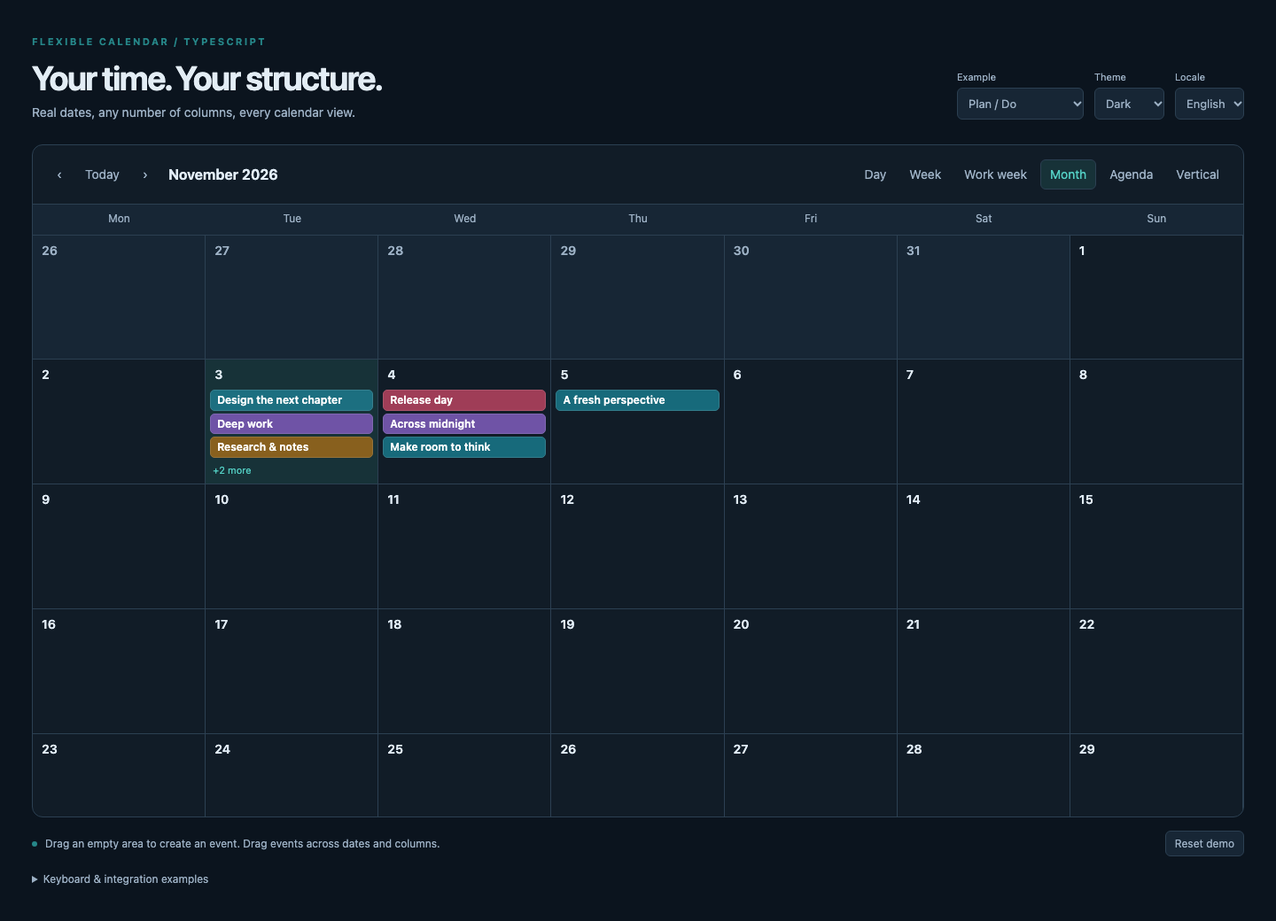
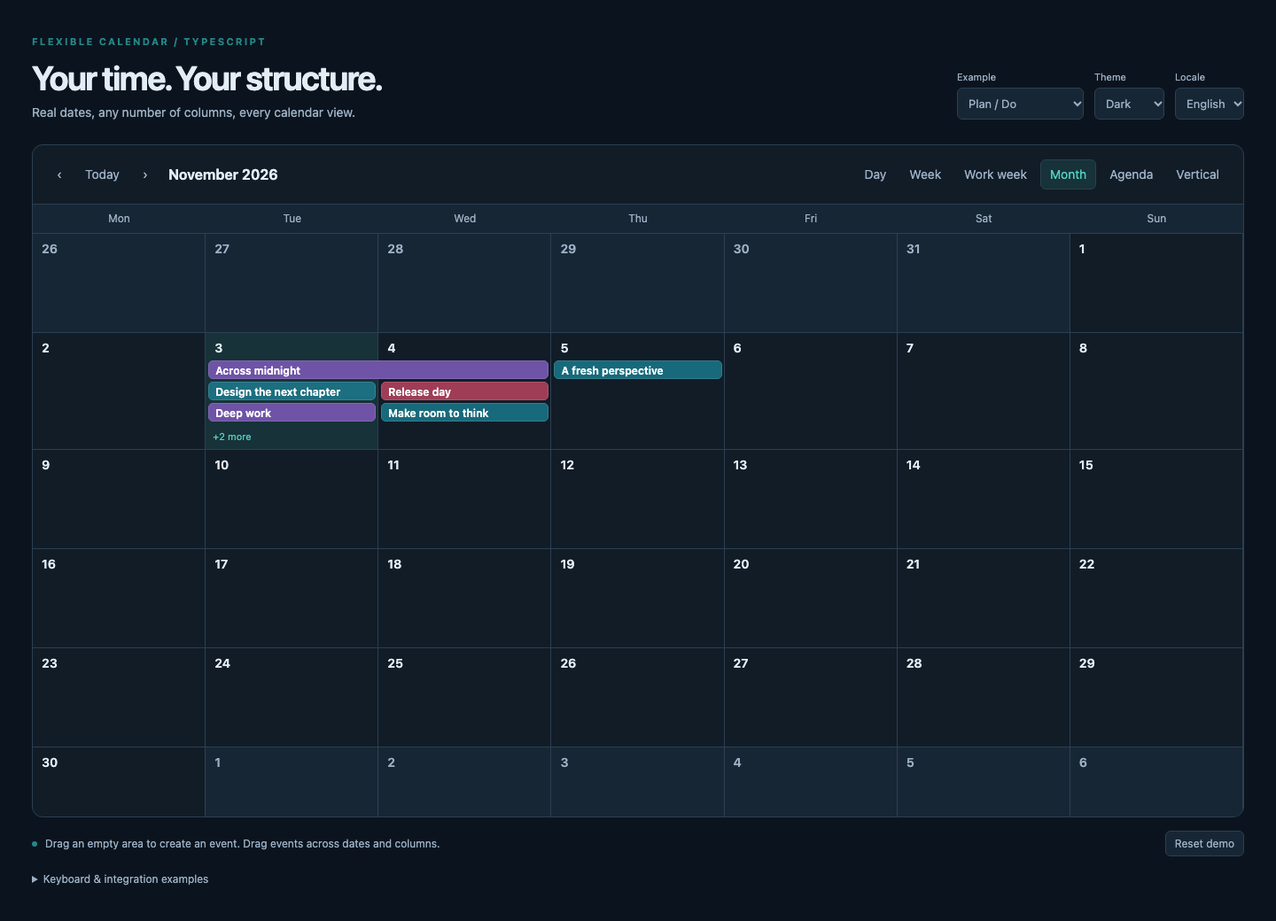
docs: record review improvements and measured performance

diff --git a/tests/browser/calendar.spec.ts b/tests/browser/calendar.spec.ts
@@ -180,9 +180,7 @@ test("dark mode, Japanese labels, and month overflow", async ({ page }) => {
   await page
     .locator('.fc-month-day[data-date="2026-11-03"] .fc-show-more')
     .click();
-  await expect(
-    page.locator('.fc-month-popup .fc-event'),
-  ).toHaveCount(5);
+  await expect(page.locator(".fc-month-popup .fc-event")).toHaveCount(5);
 });
 test("unmount removes calendar and stops callbacks", async ({ page }) => {
   await page.evaluate(() => window.demoCalendar.destroy());

diff --git a/docs/features.md b/docs/features.md
@@ -2,40 +2,40 @@
 
 This project targets the functional categories of [react-big-calendar](https://github.com/bigcalendar/react-big-calendar), while keeping the engine and renderer independent of React. It does **not** promise compatible props, DOM classes, identical geometry, or complete API parity. The following describes the implemented version, not a roadmap presented as finished work.
 
-| Capability                              | Flexible Calendar 0.1                                                                 |
-| --------------------------------------- | ------------------------------------------------------------------------------------- |
-| Day / week / work-week / month / agenda | Implemented                                                                           |
-| Arbitrary N-day vertical                | Implemented with real dates                                                           |
-| Resource columns                        | Implemented in time views; per-date resource sets and multi-resource events supported |
-| Timed and all-day events                | Implemented; all-day status is explicit                                               |
-| Midnight-spanning events                | Automatic visual segments, original event identity retained                           |
-| Overlap layout                          | No-overlap lanes by default; overlap mode and custom layout callback                  |
-| Month overflow                          | Configurable visible count, inline expansion, `onShowMore` override                   |
-| Date drill-down and navigation          | Implemented; toolbar can be hidden or replaced                                        |
-| Custom views                            | Registered range/navigation definitions and DOM renderer callbacks                    |
-| Selection, event click, double-click    | Implemented; selection veto supported                                                 |
-| Pointer move and resize                 | Implemented in time/month/all-day views                                               |
-| Cross-date and cross-resource drag      | Implemented; timed duration preserved                                                 |
-| External drag source                    | Native HTML5 `DataTransfer` adapter                                                   |
-| Drag auto-scroll                        | Both axes in the calendar scroll container                                            |
-| Keyboard / touch                        | Implemented; see interaction contract in API docs                                     |
-| Background events                       | Implemented in time views, excluded from overlap calculations                         |
-| Data accessors                          | Typed `adaptEvents` / `adaptResources` helpers                                        |
-| Custom event/header components          | DOM nodes, React portals, Vue slots                                                   |
-| Event/column/day styles                 | Public callbacks; no private DOM query needed                                         |
-| Messages, locale, formats, time zone    | Intl + Temporal; custom time/day/period formatters                                    |
-| RTL and dark mode                       | Included for every built-in view                                                      |
-| SSR imports                             | Safe; actual UI mounts on the client                                                  |
+| Capability                              | Flexible Calendar 0.1                                                                    |
+| --------------------------------------- | ---------------------------------------------------------------------------------------- |
+| Day / week / work-week / month / agenda | Implemented                                                                              |
+| Arbitrary N-day vertical                | Implemented with real dates                                                              |
+| Resource columns                        | Implemented in time views; per-date resource sets and multi-resource events supported    |
+| Timed and all-day events                | Implemented; all-day status is explicit                                                  |
+| Midnight-spanning events                | Automatic visual segments, original event identity retained                              |
+| Overlap layout                          | No-overlap lanes by default; overlap mode and custom layout callback                     |
+| Month overflow                          | Continuous weekly bars, overflow popup, optional inline expansion, `onShowMore` override |
+| Date drill-down and navigation          | Implemented; toolbar can be hidden or replaced                                           |
+| Custom views                            | Registered range/navigation definitions and DOM renderer callbacks                       |
+| Selection, event click, double-click    | Implemented; selection veto supported                                                    |
+| Pointer move and resize                 | Implemented in time/month/all-day views                                                  |
+| Cross-date and cross-resource drag      | Implemented; timed duration preserved                                                    |
+| External drag source                    | Native HTML5 `DataTransfer` adapter                                                      |
+| Drag auto-scroll                        | Both axes in the calendar scroll container                                               |
+| Keyboard / touch                        | Implemented; see interaction contract in API docs                                        |
+| Background events                       | Implemented in time views, excluded from overlap calculations                            |
+| Data accessors                          | Typed `adaptEvents` / `adaptResources` helpers                                           |
+| Custom event/header components          | DOM nodes, React portals, Vue slots                                                      |
+| Event/column/day styles                 | Public callbacks; no private DOM query needed                                            |
+| Messages, locale, formats, time zone    | Intl + Temporal; custom time/day/period formatters                                       |
+| RTL and dark mode                       | Included for every built-in view                                                         |
+| SSR imports                             | Safe; actual UI mounts on the client                                                     |
 
 ## Deliberate differences and current limits
 
 - This is a new API. Import replacement alone cannot convert a react-big-calendar consumer. `work-week` is spelled with a hyphen; events have required unique string IDs; notifications use native events and actual Date instants.
-- Month and all-day multi-day events are rendered as daily fragments, rather than one continuous spanning bar. Their identity, interval and editing operations remain shared.
-- Month uses a fixed six-week grid. Overflow expands inline rather than opening a built-in popup. An application can provide its own popup via `onShowMore`.
+- Time-view all-day multi-day events remain daily fragments. Month events use continuous bars, split only at week boundaries; both retain original event identity.
+- Month uses 4–6 weeks by default, with an optional fixed six-week grid. Overflow opens an accessible dialog; inline expansion and application overrides are available.
 - Custom views register pure date-range/navigation functions and a renderer callback, rather than React component statics. Event creation and change callbacks are provided to the renderer.
 - No Moment/Globalize/date-fns localizer adapters. Intl locale, explicit week start, time zone and formatter callbacks replace them.
 - No recurrence expansion, editor form, persistence, scheduler timeline, event virtualization or built-in undo history. These are application concerns or separate extensions.
 - DST uses a fixed wall-clock grid, not a duplicated fall-back hour; see [date behavior](dates.md).
-- DOM updates rebuild the visible view. No unbounded-data performance guarantee or formal screen-reader certification is claimed.
+- Event-only time-view updates replace affected columns. Structural changes and month/agenda updates rebuild the view. See [benchmarks](performance.md); no unbounded-data performance guarantee or formal screen-reader certification is claimed.
 
 These differences are part of the preview review checklist. They must not be described as complete drop-in equivalence to an established library.

diff --git a/docs/api.md b/docs/api.md
@@ -54,20 +54,20 @@ The end is **exclusive**, including for all-day events. Events with invalid date
 | `minMinute`, `maxMinute` | `0`, `1440` | Visible wall-clock bounds                                 |
 | `step`                   | `30`        | Selection, keyboard and pointer snap increment in minutes |
 
-Month always displays six weeks; work-week excludes Saturday/Sunday after applying the chosen week start. `vertical` starts exactly on the anchor date. Week and work-week start at the enclosing week's boundary. Agenda lists the anchor date and following `days - 1` dates.
+Month displays the enclosing 4–6 weeks (`monthFixedWeeks: true` forces six); work-week excludes Saturday/Sunday after applying the chosen week start. `vertical` starts exactly on the anchor date. Week and work-week start at the enclosing week's boundary. Agenda lists the anchor date and following `days - 1` dates.
 
-When resources are present, time views show events whose resource ID matches the column. Without resources, all events appear regardless of their resource assignment. Month and agenda show all supplied events. A resource ID array displays one input event in multiple columns; month and agenda still list it once per intersecting date. A drag to another column proposes that target as the new assignment; use the original event in the callback if your application needs a different reassignment rule. Resource IDs are independent from dates; empty per-date resources produce a single ungrouped column for that date.
+When resources are present, time views show events whose resource ID matches the column. Without resources, all events appear regardless of their resource assignment. Month and agenda show all supplied events. A resource ID array displays one input event in multiple columns; month renders one continuous bar per intersecting week, and agenda lists it once per intersecting date. A drag to another column proposes that target as the new assignment; use the original event in the callback if your application needs a different reassignment rule. Resource IDs are independent from dates; empty per-date resources produce a single ungrouped column for that date.
 
 ## DOM options
 
-- **Geometry:** `height` (680px), `hourHeight` (64px), `columnWidth` (minimum 160px), `scrollToMinute`, `monthMaxEvents` (3).
+- **Geometry:** `height` (680px), `hourHeight` (64px), `columnWidth` (minimum 160px), `scrollToMinute`, `monthMaxEvents` (3 visible event lanes), `monthOverflow` (`"popup"`, or `"expand"` for inline expansion).
 - **Appearance:** `theme: 'light' | 'dark' | 'auto'`, `direction: 'ltr' | 'rtl'`, `messages`, `selectedEventId`, `backgroundEvents`, `now`.
 - **Formatting:** `formats.time(date)`, `formats.day(date)`, `formats.period(start, exclusiveEnd, view)` override default Intl labels.
 - **Layout:** `dayLayoutAlgorithm` accepts `no-overlap` (default), `overlap`, or a function from clipped segments to normalized positions.
 - **Controls:** `toolbar` (true), `renderToolbar(context)`, `views` (all built-in views), `selectable` (true), `editable` (true), `resizable` (true), `touchSelection` (false).
 - **Rendering:** `renderEvent(event, { view, date })`, `renderColumnHeader(column)` return text or a caller-created DOM node. Text is never interpreted as HTML. Nodes are trusted application content; do not interpolate untrusted HTML.
 - **Styling:** `eventStyle(event)`, `columnStyle(column)`, `dayStyle(dateKey)` return `{ className?, style? }`. Column styling can supply a date-specific gradient without querying private DOM structure.
-- **Lifecycle:** `onBeforeRender`, `onRender` let integrations clean up and attach custom content. Do not synchronously update calendar options from these hooks; that would trigger recursive rendering.
+- **Lifecycle:** `onBeforeRender({ partial })`, `onRender` let integrations clean up and attach custom content. When `partial` is true, unaffected nodes remain mounted; only dispose content whose nodes were removed. Month popup changes also notify `onRender`. Do not synchronously update calendar options from these hooks; that would trigger recursive rendering.
 
 Custom content sits inside event buttons; avoid nested buttons/links/form controls. `renderReactEvent` and `renderReactColumnHeader` accept React nodes and preserve context. Vue exposes `event` and `columnHeader` slots. DOM render callbacks remain available in both wrappers.
 
@@ -83,7 +83,7 @@ For asynchronous saves, keep the old array until success, or apply an optimistic
 
 `onNavigate(date, view)`, `onViewChange(view)`, `onRangeChange({start,end}, view)` notify navigation. Range end is exclusive. The range callback fires initially and when view, zone or range changes. The DOM instance manages its current date/view until overridden with `update`; wrappers reapply explicitly supplied props/options. Keep date/view in application state and handle callbacks if the application controls navigation.
 
-`onDrillDown(date, 'day')` overrides the default date-header transition to day view. `onShowMore(events, dateKey)` overrides in-cell expansion. `getExternalEvent(dataTransfer)` and `onExternalDrop(change)` support native HTML5 drag sources; applications own payload validation and insertion.
+`onDrillDown(date, 'day')` overrides the default date-header transition to day view. `onShowMore(events, dateKey)` overrides the built-in overflow popup or inline expansion. The popup lists every event on that date, supports Escape, and returns focus to the overflow button. `getExternalEvent(dataTransfer)` and `onExternalDrop(change)` support native HTML5 drag sources; applications own payload validation and insertion.
 
 ## Instance
 
@@ -132,3 +132,11 @@ customViewRenderers: {
 ```
 
 The renderer also receives `selectSlot` and `changeEvent` functions that run the standard validation/veto callbacks. It owns its custom layout, keyboard and pointer behavior. `renderEvent` creates a normal accessible event button with standard activation behavior. Custom range functions must return 1–366 unique, ascending ISO date keys; invalid ranges fail validation. Import `dateKey` and `shiftDate` from the root entry.
+
+## Updates and rendering
+
+Use immutable event records: replace a changed record and pass a new array. Also replace changed resource, background-event, format and style options rather than mutating nested objects. This includes application-specific fields read by custom renderers.
+
+Event-only updates in time views replace affected date/resource columns and preserve other columns, headers and the scroll container. Structural options, month and agenda use a full view render with scroll/focus restoration. Changes to renderer callback identity also cause a full render. The renderer is not virtualized; see [measured performance](performance.md).
+
+An update during a pointer gesture is queued until completion or cancellation. If the dragged event is removed or its interval/resource changes, the gesture is cancelled and the incoming update is applied. `getOptions()` reports the currently applied options, not the queued options.

diff --git a/docs/verification.md b/docs/verification.md
@@ -1,14 +1,14 @@
 # Verification — 2026-11-03
 
-This records checks performed on the initial 0.1.0 implementation. It is evidence for the preview, not a claim that a new library has the production history of an established calendar.
+This records checks performed on the 0.1.0 implementation after the review improvements. It is evidence for the preview, not a claim that a new library has the production history of an established calendar.
 
 ## Automated results
 
 | Check                                           | Result                                                                                                                                |
 | ----------------------------------------------- | ------------------------------------------------------------------------------------------------------------------------------------- |
 | Strict TypeScript, including examples and tests | Passed                                                                                                                                |
-| Unit suite                                      | 34 passed                                                                                                                             |
-| Playwright suite                                | 94 passed                                                                                                                             |
+| Unit suite                                      | 41 passed                                                                                                                             |
+| Playwright suite                                | 130 passed                                                                                                                            |
 | Desktop browser engines                         | Chromium, Firefox, WebKit                                                                                                             |
 | Mobile emulation                                | Pixel 7 / Chromium and iPhone 13 / WebKit                                                                                             |
 | axe WCAG 2 A/AA and 2.1 A/AA rules              | No automatic violations in sampled vertical, month and agenda views, in light and dark themes, on all three desktop engines           |
@@ -30,6 +30,10 @@ Coverage includes all six built-in views, navigation/drill-down, empty-slot crea
 
 The native vertical-view regression checks explicitly drag a midnight continuation fragment and verify that the **original event** moves with its real start/end and unchanged ID. Keyboard movement of a continuation across resource columns is covered separately. Unit tests cover exclusive midnight ends, overlap clusters, 1,000-event layout, leap/year boundaries, spring gaps/fall folds, and civil all-day duration during DST transitions.
 
+Additional regressions cover continuous month bars and exclusive ends, 4–6 week ranges, popup keyboard dismissal/focus return/activation/cleanup, optional inline expansion, deferred refresh during a drag, conflicting updates, preserved columns/scroll/header, current callback dispatch, input-order changes, and resource moves/deletion across fragments.
+
+[Browser benchmarks](performance.md) measure 100, 500 and 2,000 events on the same machine before and after the changes.
+
 ## Visual review
 
 The saved images were captured from the functioning playground; they are not mockups. Light and dark vertical views and dark month were inspected for clipping, legibility, headers and event placement.
@@ -44,7 +48,7 @@ The saved images were captured from the functioning playground; they are not moc
 - No existing application's authentication, API, database or production data was involved. No consumer application was migrated.
 - Recurrence, persistence, editor behavior and application-specific optimistic updates belong to the consumer and are not certified by these tests.
 - The renderer is not virtualized; the test of 1,000 layout intervals is not a throughput or browser memory guarantee for arbitrarily large schedules.
-- [Feature differences](features.md) and [DST behavior](dates.md) are explicit preview constraints. In particular, multi-day bars are daily fragments, month overflow expands inline, and the time axis does not duplicate DST fall-back hours.
+- [Feature differences](features.md) and [DST behavior](dates.md) are explicit preview constraints. Time-view all-day events remain daily fragments, and the time axis does not duplicate DST fall-back hours.
 - Repository visibility remains private and `private: true` blocks npm publication. Publication requires the owner's separate review.
 
 CI repeats formatting, type/unit/build checks, package-consumer validation and the browser suite. Local browser binaries used for this run were temporary test dependencies; no user browser profile or global Mac configuration was modified.

diff --git a/docs/performance.md b/docs/performance.md
@@ -1,0 +1,32 @@
+# Rendering measurements
+
+Measured on 2026-11-03, Apple M5 / macOS arm64, Playwright Chromium 156.0.8078.4, without CPU throttling. These are local observations, not a supported event-count limit or latency guarantee.
+
+The reproducible script mounts seven days with three resources and 100, 500 or 2,000 events, then updates one event title while preserving other event references. It forces layout after both operations. Each number is the median of three trials after one warm-up. The duration includes synchronous rendering/layout, but not subsequent paint, framework reconciliation, network requests or application work. Only seven dates contain events in the month fixture.
+
+| View     | Events | Initial mount before → after (ms) | One-event update before → after (ms) |
+| -------- | -----: | --------------------------------: | -----------------------------------: |
+| Vertical |    100 |                        23.0 → 5.2 |                           22.7 → 2.7 |
+| Vertical |    500 |                      104.5 → 19.1 |                           97.3 → 8.2 |
+| Vertical |  2,000 |                      352.1 → 68.3 |                         345.0 → 27.9 |
+| Month    |    100 |                         6.1 → 5.4 |                            6.1 → 5.0 |
+| Month    |    500 |                        6.6 → 10.2 |                            6.5 → 9.1 |
+| Month    |  2,000 |                       11.6 → 28.1 |                          11.4 → 27.6 |
+
+Raw reports identify the measured commits: [baseline](../benchmarks/baseline.json) (`ef5732a`) and [after changes](../benchmarks/optimized.json) (`1989f8d`). The baseline script was added in the following commit and run against the original implementation. Later input-order handling does not appear in this measurement.
+
+The vertical renderer reuses day boundaries and Intl formatters and replaces only affected columns. Its 2,000-event fixture still contains 12,156 DOM nodes: this is not virtualization. Update cost also includes validation, indexing and layout; it is not constant time.
+
+The month renderer now computes collision-free weekly spanning bars and supports an overflow dialog, whereas the baseline rendered independent daily fragments. It is slower at 500 and 2,000 events, despite rendering only the first three lanes. Month updates still rebuild the view. The table deliberately includes this regression rather than claiming that all views became faster.
+
+## Reproduce
+
+After installing development dependencies and the Playwright Chromium browser:
+
+```sh
+npm run bench -- benchmarks/latest.json
+```
+
+If browsers are installed outside Playwright's default cache, set `PLAYWRIGHT_BROWSERS_PATH` to that directory. The script starts a local Vite server on port 4174, launches a fresh browser and closes both when done. Reports are written to the supplied path. Compare runs on the same machine/browser with other workloads idle.
+
+Changing every record reference, using custom renderers, dense overlapping clusters, wide resource grids or slow devices can produce different results. Fetch only the visible range via `onRangeChange`; measure the consumer application's expected data and hardware. Physical mobile performance and sustained memory profiles remain unmeasured.

diff --git a/docs/architecture.md b/docs/architecture.md
@@ -20,6 +20,10 @@ Application data / persistence / editor
 
 Views are presentation over the same event model. Resources represent arbitrary parallel columns (rooms, people, Plan/Do, etc.), not dates. Date keys are separate; midnight splitting is purely visual. A caller can style each column using its real date and resource without reaching into private DOM.
 
-The initial renderer favors transparent, deterministic behavior over virtualization. Updating options redraws the current view, retains scroll position per view, and restores event/column focus where possible. Dense time layouts use interval partitioning; monthly/agenda event scans are per visible date. Benchmark the expected data size before using tens of thousands of events; filter the fetched range in `onRangeChange`. No performance guarantee is made for unbounded event sets.
+`calendar.ts` owns instance lifecycle, navigation and shared context. View rendering lives in `time-view.ts`, `month-view.ts`, `agenda-view.ts` and `toolbar.ts`; `pointer.ts` and `keyboard.ts` own interaction logic. `month-popup.ts` owns dialog cleanup, and `time-update.ts` decides which columns need replacement.
+
+Day boundaries and event segments are indexed once per render. Intl formatters are reused. Event-only time-view updates replace affected date/resource columns; headers, scroll container and unrelated columns remain mounted. Structural changes and month/agenda updates rebuild the view, restoring scroll and focus where possible. Updates during a gesture are deferred; conflicting changes cancel the gesture before applying incoming data. Framework adapters retain custom content in surviving nodes and remove detached mounts.
+
+The renderer is not virtualized. Dense time layouts use interval partitioning; month uses weekly spanning bars with collision-free lanes. Filter fetched ranges using `onRangeChange` and measure the expected data size. [Performance measurements](performance.md) include limits and reproducible commands.
 
 Extension points include generic event records, typed accessors, render callbacks, style callbacks, messages, view selection, per-date resources, background events, veto hooks, lifecycle hooks and the independent core. This version deliberately does not execute plugins or fetch remote data internally.

diff --git a/CHANGELOG.md b/CHANGELOG.md
@@ -10,4 +10,10 @@
 - React and Vue adapters with framework-native custom content.
 - Local examples, unit/browser tests, declarations, source maps and package validation.
 
+- Separate view modules, pointer/keyboard controllers and lifecycle coordination.
+- Indexed day boundaries, reused formatters and partial time-column updates.
+- Safe data refresh during pointer gestures, with cancellation on conflicting edits.
+- Continuous month bars, accessible overflow dialog, inline expansion option and configurable fixed weeks.
+- Reproducible browser rendering benchmarks and regression tests for the new behavior.
+
 Private development preview; no npm release has been made.

diff --git a/README.md b/README.md
@@ -9,6 +9,8 @@ A TypeScript calendar with a framework-independent engine and DOM renderer, plus
 ## Features
 
 - Day, week, work-week, month, agenda and configurable N-day vertical views.
+- Continuous multi-day month bars, 4–6 week grids and an accessible overflow popup.
+- Column-level time-view updates; [reproducible performance measurements](docs/performance.md).
 - Multiple resource columns per day, including different resources on different dates.
 - Timed, all-day, overlapping and multi-day events; exclusive end times.
 - Pointer selection, event movement, start/end resize, cross-date/resource movement, external drops and drag auto-scroll.
